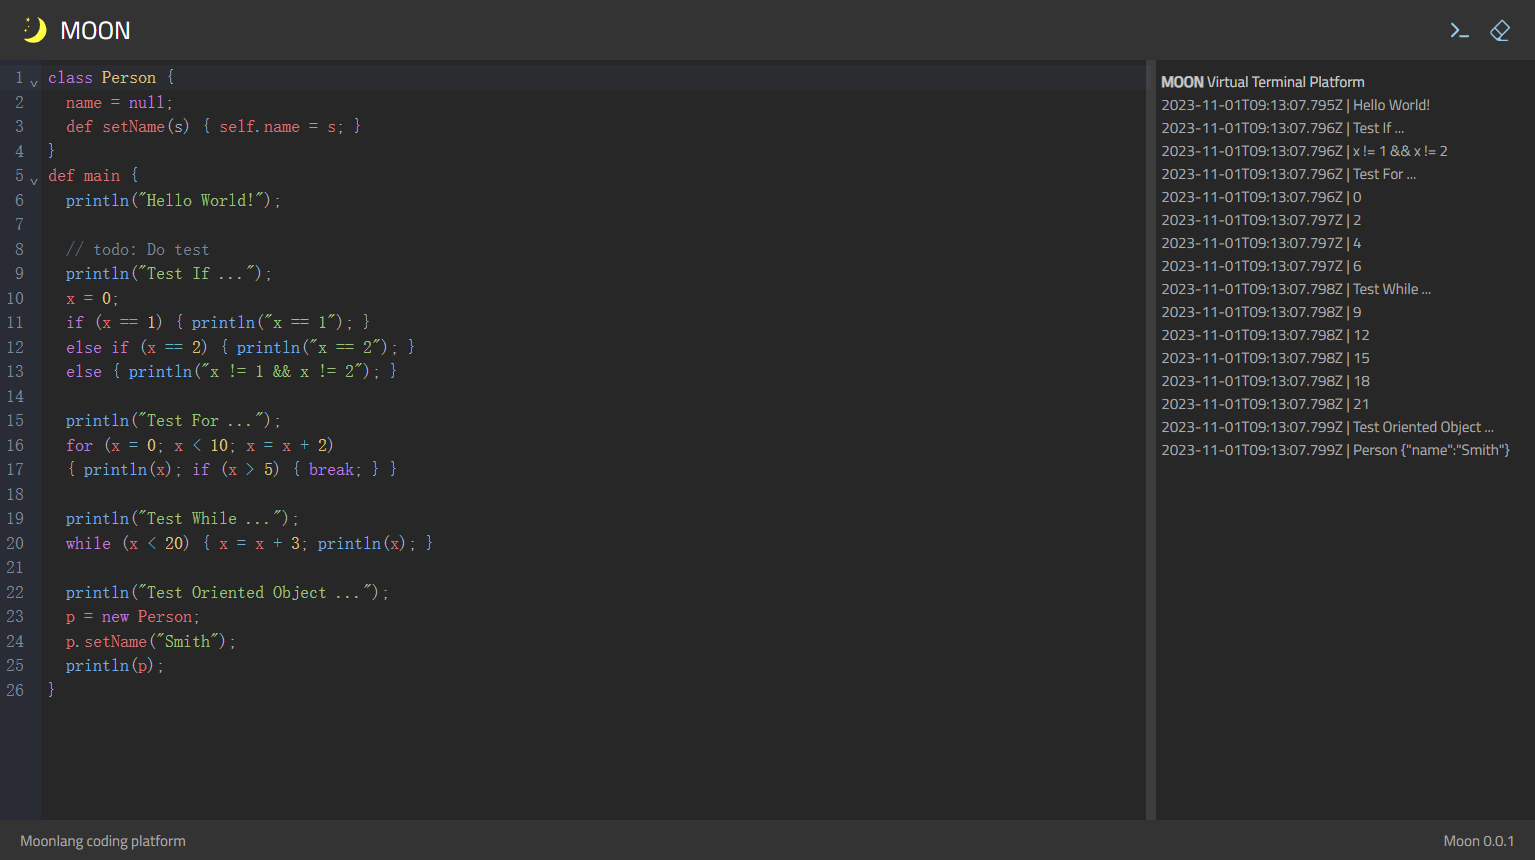
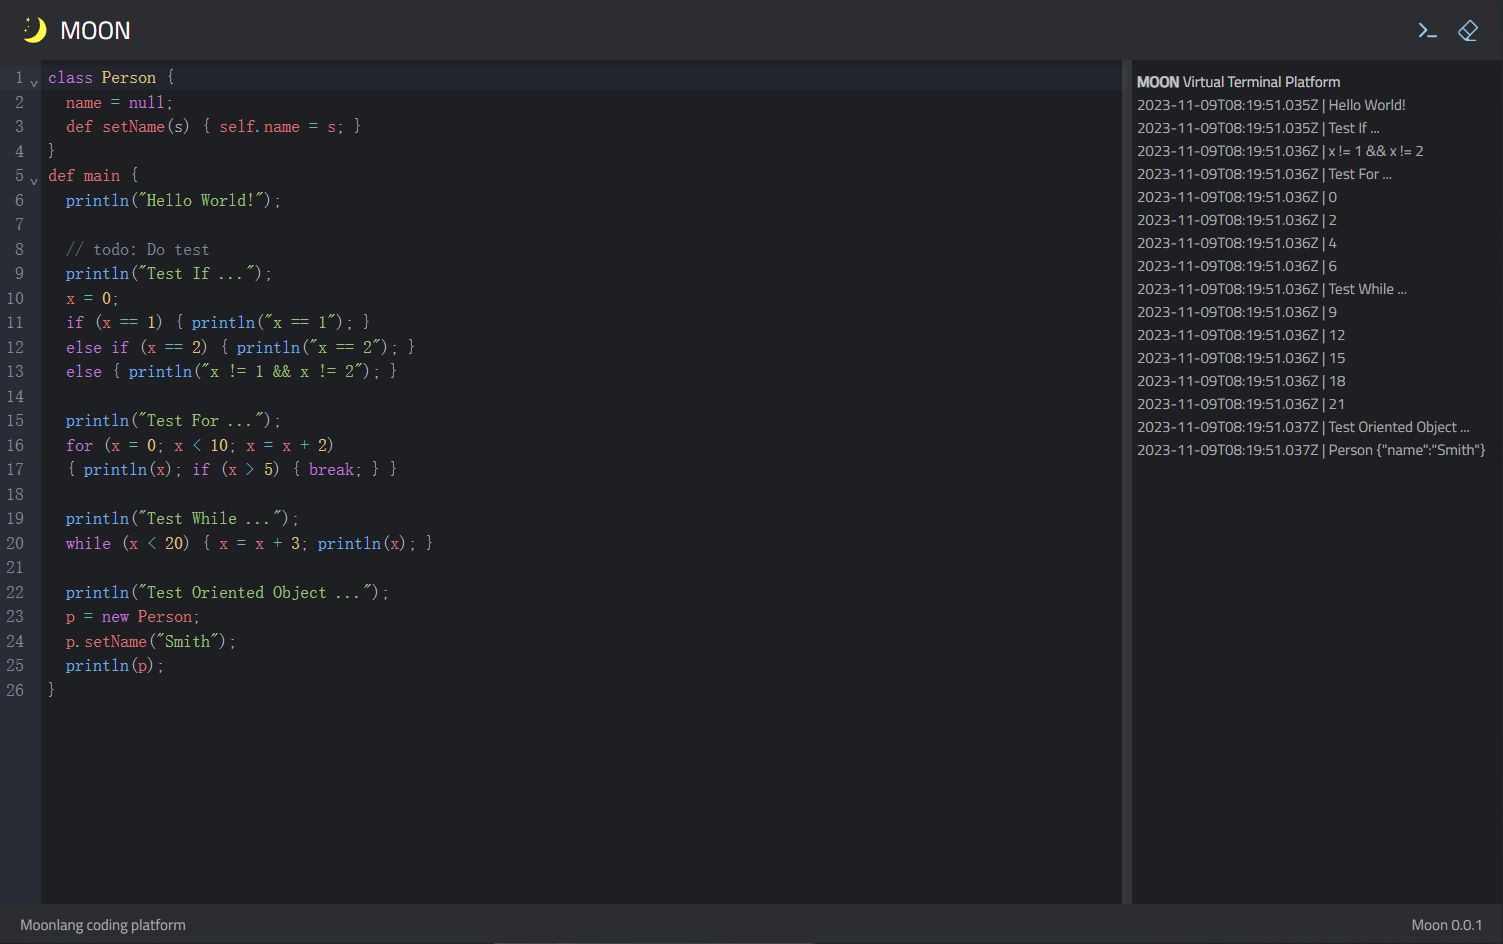
optimize: UI optimization

diff --git a/MoonTypeScript/src/ide/SvgOf.vue b/MoonTypeScript/src/ide/SvgOf.vue
@@ -262,14 +262,14 @@ withDefaults(defineProps<SvgProps>(), {
        :width="width" :height="height" :stroke="color">
     <path
         d="M1020.330667 859.733333a56.149333 56.149333 0 0 1-57.386667 35.669334 20.053333 20.053333 0 0 1-2.944 0.597333H640a42.666667 42.666667 0 0 1-42.666667-42.666667V254.378667c0-0.512-0.256-0.981333-0.256-1.493334 0-2.389333 0.213333-4.138667 0.256-6.4V233.386667a20.608 20.608 0 0 1 0.725334-3.626667c2.218667-28.202667 9.130667-45.696 25.941333-53.717333 27.989333-13.354667 67.754667-1.493333 94.250667 45.226666 0.298667 0.512 0.426667 1.194667 0.682666 1.792a21.802667 21.802667 0 0 1 2.816 5.930667l259.712 512.469333 0.042667 0.768c22.101333 39.210667 52.437333 88.661333 38.826667 117.589334zM644.736 220.458667A46.933333 46.933333 0 0 0 640 244.48V836.266667a17.066667 17.066667 0 0 0 17.066667 17.066666h298.24a23.552 23.552 0 0 1 4.266666-0.768c14.037333 0 12.586667-0.725333 16.896-8.277333a274.346667 274.346667 0 0 0-30.378666-83.328 102.698667 102.698667 0 0 1-2.986667-6.784 19.626667 19.626667 0 0 1-0.853333-1.792L682.496 239.914667c-0.085333-0.298667 0-0.554667-0.042667-0.853334-18.773333-33.024-30.336-29.781333-37.76-18.645333z"
-        fill="#fff" p-id="5791"></path>
+        fill="#fff"></path>
     <path
         d="M554.666667 596.821333V853.333333a42.666667 42.666667 0 0 1-42.666667 42.666667H64a21.162667 21.162667 0 0 1-2.944-0.597333 54.442667 54.442667 0 0 1-56.064-35.541334c-15.061333-31.914667 5.205333-59.861333 44.373333-87.04a25.301333 25.301333 0 0 1 3.285334-1.450666c0.170667-0.128 0.170667-0.426667 0.384-0.512l384.896-233.344a20.864 20.864 0 0 1 7.936-2.688c36.949333-21.973333 64.256-26.88 82.133333-16.170667a61.44 61.44 0 0 1 25.770667 52.906667 20.693333 20.693333 0 0 1 0.896 4.437333v13.696c0 2.005333 0.256 3.498667 0.256 5.632 0 0.512-0.213333 0.981333-0.256 1.493333z"
-        fill="#5789D9" p-id="5792"
+        fill="#5789D9"
     ></path>
     <path
         d="M554.666667 596.821333V853.333333a42.666667 42.666667 0 0 1-42.666667 42.666667H64a20.266667 20.266667 0 0 1-2.986667-0.597333 54.442667 54.442667 0 0 1-56.021333-35.541334c-15.061333-31.914667 5.205333-59.861333 44.373333-87.04a25.301333 25.301333 0 0 1 3.285334-1.450666c0.170667-0.128 0.170667-0.426667 0.384-0.512l384.896-233.344a20.608 20.608 0 0 1 7.936-2.688c36.949333-21.973333 64.213333-26.88 82.133333-16.213334a61.44 61.44 0 0 1 25.770667 52.906667 20.224 20.224 0 0 1 0.896 4.48v13.653333c0 2.048 0.256 3.541333 0.256 5.674667 0 0.512-0.213333 0.981333-0.256 1.493333zM512 832v-249.941333a39.296 39.296 0 0 0-4.736-21.76c-5.333333-6.698667-14.890667-8.021333-45.568 10.666666l-0.128 0.042667c-1.066667 1.024-1.28 2.688-2.56 3.456l-384.938667 233.344a20.266667 20.266667 0 0 1-4.821333 1.621333c-21.930667 13.909333-31.402667 24.832-21.76 34.986667 6.016 6.314667 2.901333 8.277333 16.938667 8.277333a23.381333 23.381333 0 0 1 3.626666 0.64H494.933333a17.066667 17.066667 0 0 0 17.066667-17.066666zM512 234.666667a21.034667 21.034667 0 0 1-7.424 15.872L375.893333 379.264a21.290667 21.290667 0 0 1-30.122666-30.08L438.954667 256H384v1.066667C376.917333 256.64 369.877333 256 362.666667 256A320 320 0 0 0 42.666667 576c0 7.210667 0.597333 14.250667 1.066666 21.333333H42.666667v21.333334a21.333333 21.333333 0 1 1-42.666667 0v-42.666667A362.666667 362.666667 0 0 1 362.666667 213.333333h74.581333L345.728 121.813333a21.12 21.12 0 0 1 29.866667-29.866666l122.922666 122.965333A21.248 21.248 0 0 1 512 234.666667z"
-        fill="#5789D9" p-id="5793"
+        fill="#5789D9"
     ></path>
   </svg>
 

diff --git a/MoonTypeScript/src/ide/MPlatform.vue b/MoonTypeScript/src/ide/MPlatform.vue
@@ -8,7 +8,7 @@ import LOGO from "../../moon.svg"
 import {onMounted, reactive, ref} from "vue";
 import SvgOf from "./SvgOf.vue";
 import {BuiltinFunctionValue, IValue} from "../moon/valuesystem";
-import MultiWindow from "./MultiWindow.vue";
+import HSliderWindows from "./HSliderWindows.vue";
 
 const editor = ref<HTMLDivElement>()
 const logger = ref<HTMLDivElement>()
@@ -110,17 +110,13 @@ onMounted(() => {
           <SvgOf name="terminal" color="skyblue"/>
         </div>
         <div class="icon icon-hover" @click="clearLog">
-<!--             style="margin-right: .5rem;">-->
           <SvgOf name="erase" color="skyblue"/>
         </div>
-<!--        <div class="icon icon-hover" @click="switchWindow">-->
-<!--          <SvgOf name="rotate" color="darkseagreen"/>-->
-<!--        </div>-->
       </div>
     </div>
     <div class="main">
-      <MultiWindow :ratio="0.75" :direction="ide.direction" :key="ide.direction">
-        <template #win0>
+      <HSliderWindows :percent=".75">
+        <template #one>
           <div class="ide v-flex" key="editor">
             <div style="height: 100%;">
               <div ref="editor" style="height: 100%;">
@@ -128,12 +124,12 @@ onMounted(() => {
             </div>
           </div>
         </template>
-        <template #win1>
+        <template #two>
           <div class="log" ref="logger" key="logger">
 
           </div>
         </template>
-      </MultiWindow>
+      </HSliderWindows>
     </div>
     <div class="footer between-flex colored-bar">
       <div>Moonlang coding platform</div>
@@ -146,7 +142,7 @@ onMounted(() => {
 
 @import "../fonts/fonts-support.css";
 
-.overlay { position: absolute; top: 0; left: 0; width: 100%; height: 100%; background: #272727; overflow: hidden; }
+.overlay { position: absolute; top: 0; left: 0; width: 100%; height: 100%; background: #1e1f22; overflow: hidden; }
 .v-flex { display: flex; flex-direction: column; }
 .v-flex>* { width: 100%; }
 .between-flex { display: flex; justify-content: space-between; align-items: center; }
@@ -154,7 +150,7 @@ onMounted(() => {
 .footer { height: 2rem; box-sizing: border-box; padding: 0 1rem; color: #aaa; font-size: .75rem; font-family: "Titillium Web", sans-serif; }
 .main { height: calc(100% - 3rem - 2rem); display: flex; position: relative; }
 .main>div { height: 100%; }
-.colored-bar { background: #333; }
+.colored-bar { background: #2b2d30; }
 .icon { width: 24px; height: 24px; display: flex; justify-content: center; align-items: center; border-radius: 6px; }
 .icon>* { width: 75%; height: 75%; }
 

diff --git a/MoonTypeScript/src/ide/VSliderWindows.vue b/MoonTypeScript/src/ide/VSliderWindows.vue
@@ -1,0 +1,48 @@
+<script setup lang="ts">
+import {onMounted, reactive, ref} from "vue";
+
+const props = defineProps<{ percent: number }>()
+const state = reactive({dx: 0, cursor: {di: 0, lock: false}, slider: {di: 0, dx: 0}})
+const container = ref<HTMLDivElement>()
+const slider = ref<HTMLDivElement>()
+onMounted(() => {
+  state.dx = (props.percent ? props.percent : .5) * container.value.clientHeight
+  Object.assign(state, {slider: {dx: state.dx}})
+  window.addEventListener('mouseup', () => onRelease())
+  window.addEventListener('mousemove', (e: MouseEvent) => onMoving(e))
+})
+function fxPos(x: number) { return x < 0 ? 0 : x }
+function fxMax(x: number, mx: number) { return x >= mx ? mx : x }
+function onPress(e: MouseEvent) {
+  state.slider.di = state.slider.dx
+  state.cursor.di = e.clientY
+  state.cursor.lock = true
+}
+function onRelease() {
+  state.cursor.lock = false
+}
+function onMoving(e: MouseEvent) {
+  if (state.cursor.lock)
+    state.slider.dx = fxMax(fxPos(state.slider.di - e.clientY + state.cursor.di), slider.value.parentElement.clientHeight)
+  state.dx = state.slider.dx
+}
+</script>
+
+<template>
+  <div class="v-widget" ref="container">
+    <div class="one" :style="{height: `calc(100% - ${state.dx}px)`}">
+      <slot name="one"></slot>
+    </div>
+    <div class="two" :style="{height: `${state.dx}px`}">
+      <slot name="two"></slot>
+    </div>
+    <div ref="slider" class="slider" :style="{bottom: `calc(${state.slider.dx}px - .25rem)`}" @mousedown="onPress"></div>
+  </div>
+</template>
+
+<style scoped>
+.v-widget { position: absolute; top: 0; left: 0; width: 100%; height: 100%; display: flex; flex-direction: column; overflow: hidden; }
+.one { position: absolute; top: 0; width: 100%; }
+.two { position: absolute; bottom: 0; width: 100%; }
+.slider { position: absolute; background-color: rgba(255, 255, 255, 0.1); left: 0; right: 0; height: .5rem; cursor: n-resize;}
+</style>

diff --git a/MoonTypeScript/src/ide/HSliderWindows.vue b/MoonTypeScript/src/ide/HSliderWindows.vue
@@ -1,0 +1,48 @@
+<script setup lang="ts">
+import {onMounted, reactive, ref} from "vue";
+
+const props = defineProps<{ percent: number }>()
+const state = reactive({dx: 0, cursor: {di: 0, lock: false}, slider: {di: 0, dx: 0}})
+const container = ref<HTMLDivElement>()
+const slider = ref<HTMLDivElement>()
+onMounted(() => {
+  state.dx = (props.percent ? props.percent : .5) * container.value.clientWidth
+  Object.assign(state, {slider: {dx: state.dx}})
+  window.addEventListener('mouseup', () => onRelease())
+  window.addEventListener('mousemove', (e: MouseEvent) => onMoving(e))
+})
+function fxPos(x: number) { return x < 0 ? 0 : x }
+function fxMax(x: number, mx: number) { return x >= mx ? mx : x }
+function onPress(e: MouseEvent) {
+  state.slider.di = state.slider.dx
+  state.cursor.di = e.clientX
+  state.cursor.lock = true
+}
+function onRelease() {
+  state.cursor.lock = false
+}
+function onMoving(e: MouseEvent) {
+  if (state.cursor.lock)
+    state.slider.dx = fxMax(fxPos(state.slider.di + e.clientX - state.cursor.di), slider.value.parentElement.clientWidth)
+  state.dx = state.slider.dx
+}
+</script>
+
+<template>
+  <div class="v-widget" ref="container">
+    <div class="one" :style="{width: `${state.dx}px`}">
+      <slot name="one"></slot>
+    </div>
+    <div class="two" :style="{width: `calc(100% - ${state.dx}px)`}">
+      <slot name="two"></slot>
+    </div>
+    <div ref="slider" class="slider" :style="{left: `calc(${state.slider.dx}px - .25rem)`}" @mousedown="onPress"></div>
+  </div>
+</template>
+
+<style scoped>
+.v-widget { position: absolute; top: 0; left: 0; width: 100%; height: 100%; display: flex; overflow: hidden; }
+.one { position: absolute; left: 0; height: 100%; }
+.two { position: absolute; right: 0; height: 100%; }
+.slider { position: absolute; background-color: rgba(255, 255, 255, 0.1); top: 0; bottom: 0; width: .5rem; cursor: w-resize; }
+</style>

diff --git a/MoonTypeScript/lib/moonlang.ts b/MoonTypeScript/lib/moonlang.ts
@@ -5308,6 +5308,20 @@ export abstract class BuiltinFunctionValue extends CallableValue {
     }
 }
 
+export class ConvenientFunctionValue extends BuiltinFunctionValue {
+    impl: Function = null
+    async invoke(...args: IValue[]): Promise<IValue> {
+        if (this.impl) {
+            const ret = this.impl(...(args.map(arg => ValueSystem.valueOf(arg))))
+            if (ret instanceof Promise) {
+                return ret.then(r => ValueSystem.buildAny(r))
+            } else {
+                return Promise.resolve(ValueSystem.buildAny(ret))
+            }
+        }
+    }
+}
+
 export class MethodValue extends CallableValue {
     constructor(private readonly clazz: ClassDeclaration, private readonly decl: FunctionDeclaration, private obj: ObjectValue) {
         super();
@@ -5387,6 +5401,13 @@ export class ValueSystem {
         if (v instanceof NumberValue) return v.value !== 0
         if (v instanceof BooleanValue) return v.value
         return false
+    }
+
+    static buildAny(v: any): IValue {
+        if (typeof v === 'boolean') return new BooleanValue(v)
+        if (typeof v === 'string') return new StringValue(v)
+        if (typeof v === 'number') return new NumberValue(v)
+        return ValueSystem.buildNull()
     }
 
     static valueOf(iv: IValue): any {
@@ -6569,6 +6590,13 @@ export class ScriptEngine {
 
     inject(name: string, func: BuiltinFunctionValue) {
         this._org.setGlobalSymbol(name, func);
+        return this
+    }
+
+    builtin(name: string, impl: Function) {
+        const fn = new ConvenientFunctionValue()
+        fn.impl = impl
+        this._org.setGlobalSymbol(name, fn)
         return this
     }
 

diff --git a/MoonTypeScript/src/ide/codemirror.css b/MoonTypeScript/src/ide/codemirror.css
@@ -1,7 +1,7 @@
 .cm-editor {
     box-sizing: border-box;
     height: 100%;
-    background-color: #272727;
+    background-color: #1e1f22;
     font-family: "Consolas";
     font-size: 14px;
 }
